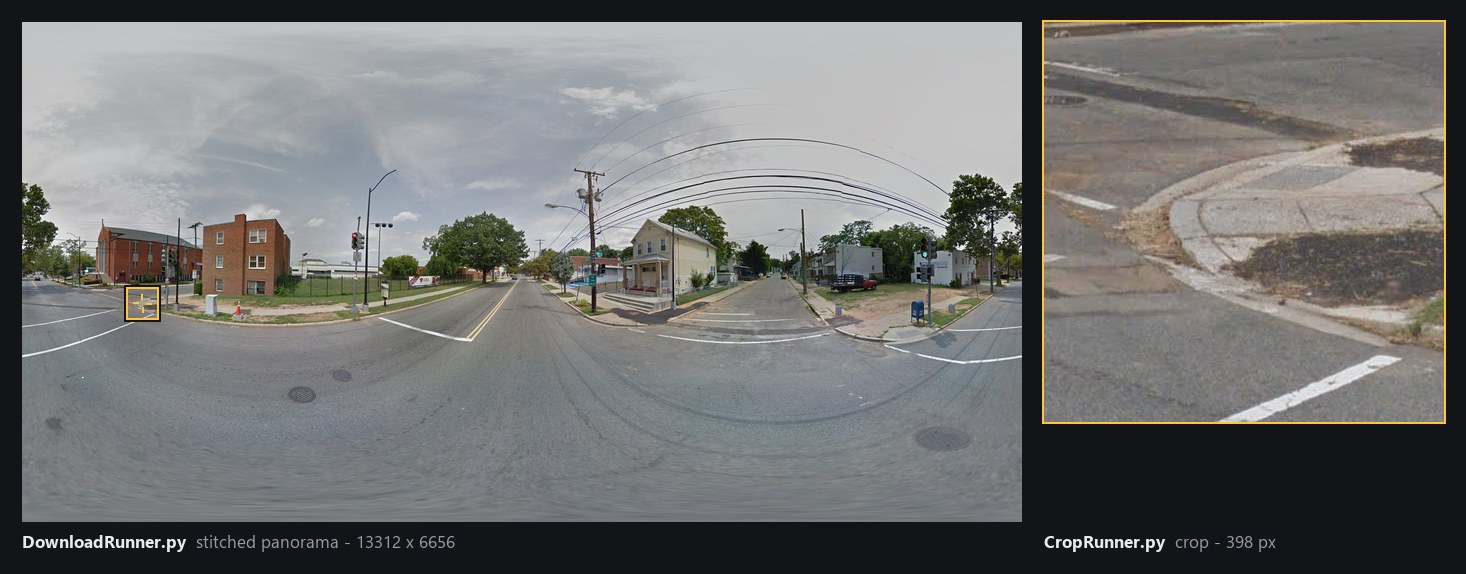
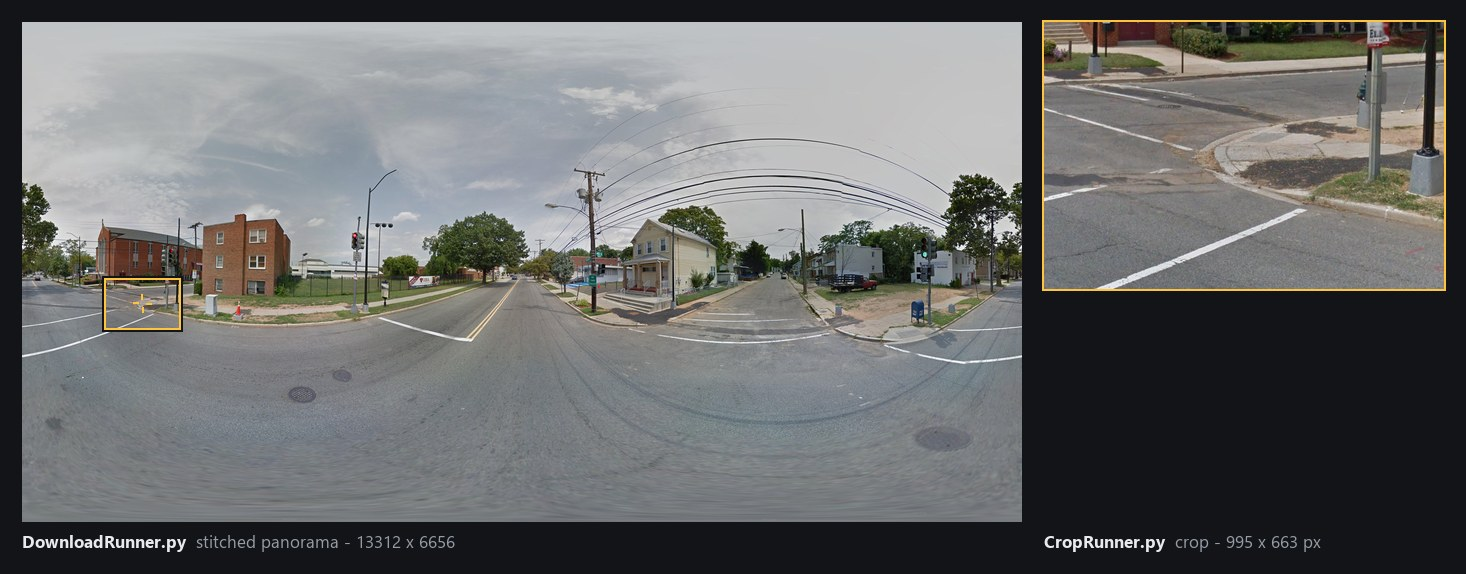
Fix the hero figure against the v2 crop rule, and pin both sizing functions
assets/make_banner.py is from #89 and predates #88, so it calls
`box.size` on a CropBox that has been (width, height) since the v2 sizing
rule. Three tests in tests/test_make_banner.py fail on master right now -
this is not a problem this branch introduced, and the fix stands whether
or not #73 lands.

Adapted to the 3:2 API rather than worked around:

  - `predict_crop_size` -> `crop_window_width`. The figure should draw
    what the cropper actually cuts, and that is the regression scaled by
    CROP_SIZE_SCALE and clamped as an angle, not the bare regression.
  - `extract_crop(pano, left, top, width, height)`, and the drawn
    rectangle uses box.width/box.height.
  - CROP_H is derived as CROP_W / CROP_ASPECT_W_OVER_H rather than
    hardcoded, so the panel cannot go out of sync with the rule the way
    the script just did. Same reason the rule derives height from width.
  - The caption says "995 x 663 px" instead of one number.

assets/banner.jpg regenerated from it - the window in the figure is now
the wider 3:2 one, which is the actual current behaviour.

One judgement call, written into the docstring: the figure draws the
window as cut, *before* downscale_for_storage caps it for disk. The
figure is about geometry, and that cap is a storage decision taken after
the geometry is settled.

The staleness test now pins BOTH sizing functions, not just the one the
figure calls. Pinning only crop_window_width would let CROP_SIZE_SCALE
[…]

diff --git a/assets/make_banner.py b/assets/make_banner.py
@@ -2,10 +2,11 @@
 """Regenerate `assets/banner.jpg`, the README's hero figure.
 
 The figure is the repo's own pipeline applied to committed sample data: the equirectangular panorama in
-`samples/sample_pano.jpg`, with the crop window that `CropRunner.predict_crop_size` +
+`samples/sample_pano.jpg`, with the crop window that `CropRunner.crop_window_width` +
 `CropRunner.compute_crop_box` produce for one label position drawn on it, beside the crop those functions
 actually cut. Nothing in it is mocked up - re-run this script and the numbers in the captions move with the
-code.
+code. It shows the window as cut, before `downscale_for_storage` caps it for disk: the figure is about the
+geometry, and that cap is a storage decision taken after the geometry is settled.
 
     python3 assets/make_banner.py
 
@@ -46,7 +47,10 @@ MUTED = (150, 156, 166)
 
 PAD = 22
 PANO_W, PANO_H = 1000, 500   # the pano is 2:1 by construction (equirectangular)
+# The crop panel is 3:2, matching CROP_ASPECT_W_OVER_H - the rule cuts by width and derives the height, so
+# the panel is derived the same way rather than hardcoded, and a change to the aspect moves both together.
 CROP_W = 400
+CROP_H = int(round(CROP_W / CropRunner.CROP_ASPECT_W_OVER_H))
 CAPTION_H = 30
 
 
@@ -77,12 +81,12 @@ def build(out_path=OUT_PATH):
     pano = Image.open(PANO_PATH).convert('RGB')
     pano_w, pano_h = pano.size
 
-    crop_size = CropRunner.predict_crop_size(LABEL_Y, pano_h)
+    crop_size = CropRunner.crop_window_width(LABEL_Y, pano_h)
     box = CropRunner.compute_crop_box(LABEL_X, LABEL_Y, crop_size, pano_w, pano_h)
-    crop = CropRunner.extract_crop(pano, box.left, box.top, box.size)
+    crop = CropRunner.extract_crop(pano, box.left, box.top, box.width, box.height)
 
     width = PAD + PANO_W + PAD + CROP_W + PAD
-    height = PAD + max(PANO_H, CROP_W) + CAPTION_H + PAD
+    height = PAD + max(PANO_H, CROP_H) + CAPTION_H + PAD
     banner = Image.new('RGB', (width, height), BG)
     draw = ImageDraw.Draw(banner)
 
@@ -91,7 +95,7 @@ def build(out_path=OUT_PATH):
     banner.paste(pano.resize((PANO_W, PANO_H), Image.LANCZOS), (PAD, PAD))
     sx, sy = PANO_W / pano_w, PANO_H / pano_h
     x0, y0 = PAD + box.left * sx, PAD + box.top * sy
-    x1, y1 = x0 + box.size * sx, y0 + box.size * sy
+    x1, y1 = x0 + box.width * sx, y0 + box.height * sy
     draw.rectangle([x0 - 3, y0 - 3, x1 + 3, y1 + 3], outline=BG, width=2)
     draw.rectangle([x0 - 1, y0 - 1, x1 + 1, y1 + 1], outline=ACCENT, width=2)
     # Crosshair on the label position itself: the window is centred on it, and that is the whole geometry.
@@ -101,21 +105,21 @@ def build(out_path=OUT_PATH):
 
     # Right panel: the crop those coordinates actually produce.
     crop_x, crop_y = PAD + PANO_W + PAD, PAD
-    draw.rectangle([crop_x - 2, crop_y - 2, crop_x + CROP_W + 1, crop_y + CROP_W + 1], fill=PANEL)
-    banner.paste(crop.resize((CROP_W, CROP_W), Image.LANCZOS), (crop_x, crop_y))
-    draw.rectangle([crop_x - 2, crop_y - 2, crop_x + CROP_W + 1, crop_y + CROP_W + 1], outline=ACCENT, width=2)
+    draw.rectangle([crop_x - 2, crop_y - 2, crop_x + CROP_W + 1, crop_y + CROP_H + 1], fill=PANEL)
+    banner.paste(crop.resize((CROP_W, CROP_H), Image.LANCZOS), (crop_x, crop_y))
+    draw.rectangle([crop_x - 2, crop_y - 2, crop_x + CROP_W + 1, crop_y + CROP_H + 1], outline=ACCENT, width=2)
     # No leader line between the two: any route from that window to this panel crosses the panorama itself.
     # The shared accent colour does the linking.
 
     small, small_b = _font(17), _font(17, bold=True)
-    cap_y = PAD + max(PANO_H, CROP_W) + 7
+    cap_y = PAD + max(PANO_H, CROP_H) + 7
 
     def caption(x, bold_part, rest):
         draw.text((x, cap_y), bold_part, font=small_b, fill=TEXT)
         draw.text((x + draw.textlength(bold_part + '  ', font=small_b), cap_y), rest, font=small, fill=MUTED)
 
     caption(PAD, 'DownloadRunner.py', f'stitched panorama - {pano_w} x {pano_h}')
-    caption(crop_x, 'CropRunner.py', f'crop - {box.size} px')
+    caption(crop_x, 'CropRunner.py', f'crop - {box.width} x {box.height} px')
 
     banner.save(out_path, quality=88, optimize=True, progressive=True)
     print(f'wrote {out_path}  ({banner.size[0]}x{banner.size[1]}, '

diff --git a/tests/test_make_banner.py b/tests/test_make_banner.py
@@ -72,18 +72,27 @@ def test_it_does_not_write_to_the_committed_path_when_given_one(make_banner, tmp
 def test_the_committed_figure_is_not_stale(make_banner):
     """The geometry the committed image was drawn from, pinned to the label position the script uses.
 
-    This is the staleness guard: if predict_crop_size or compute_crop_box changes, assets/banner.jpg is now a
+    This is the staleness guard: if crop_window_width or compute_crop_box changes, assets/banner.jpg is now a
     picture of the old behaviour and the fix is to re-run `python3 assets/make_banner.py` and commit the
     result - not to edit these numbers.
+
+    Both sizing functions are pinned, not just the one the figure calls: predict_crop_size is the regression
+    on its own and crop_window_width is what the cropper actually cuts (scaled by CROP_SIZE_SCALE, clamped as
+    an angle). The figure draws the second. Pinning only that would let the 2.5x scale and the regression
+    move in opposite directions with the product unchanged, which is exactly the kind of drift a hero figure
+    should not be able to hide.
     """
     import CropRunner
 
     with Image.open(SAMPLE_PANO) as im:
         pano_w, pano_h = im.size
 
-    size = CropRunner.predict_crop_size(make_banner.LABEL_Y, pano_h)
-    box = CropRunner.compute_crop_box(make_banner.LABEL_X, make_banner.LABEL_Y, size, pano_w, pano_h)
+    predicted = CropRunner.predict_crop_size(make_banner.LABEL_Y, pano_h)
+    width = CropRunner.crop_window_width(make_banner.LABEL_Y, pano_h)
+    box = CropRunner.compute_crop_box(make_banner.LABEL_X, make_banner.LABEL_Y, width, pano_w, pano_h)
 
     assert (pano_w, pano_h) == (13312, 6656)
-    assert size == pytest.approx(398.2, abs=0.1)
-    assert (box.left, box.top, box.size, box.shifted) == (1405, 3554, 398, False)
+    assert predicted == pytest.approx(398.2, abs=0.1)
+    assert width == pytest.approx(995.4, abs=0.1)
+    # 3:2, per CROP_ASPECT_W_OVER_H - a square box here would mean the v1 rule came back.
+    assert (box.left, box.top, box.width, box.height, box.shifted) == (1106, 3422, 995, 663, False)
